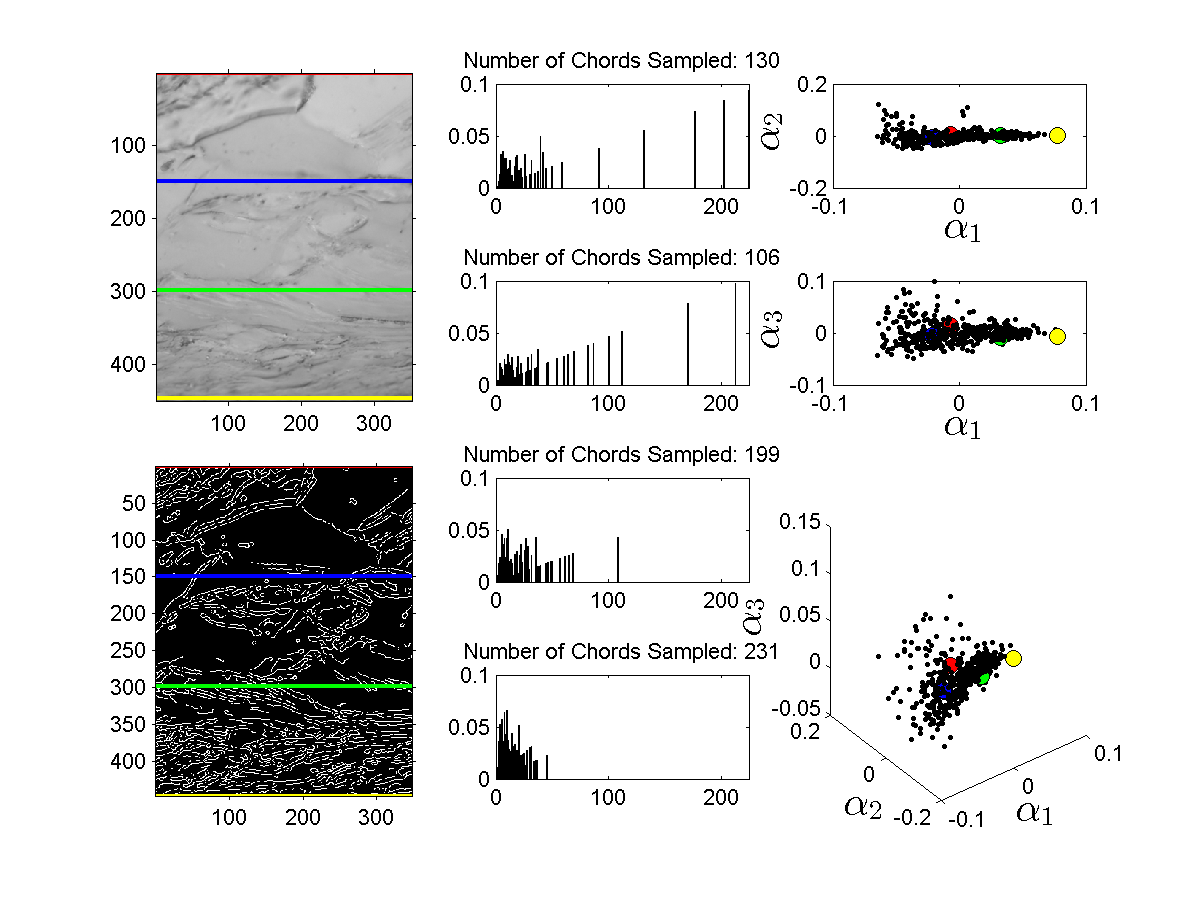
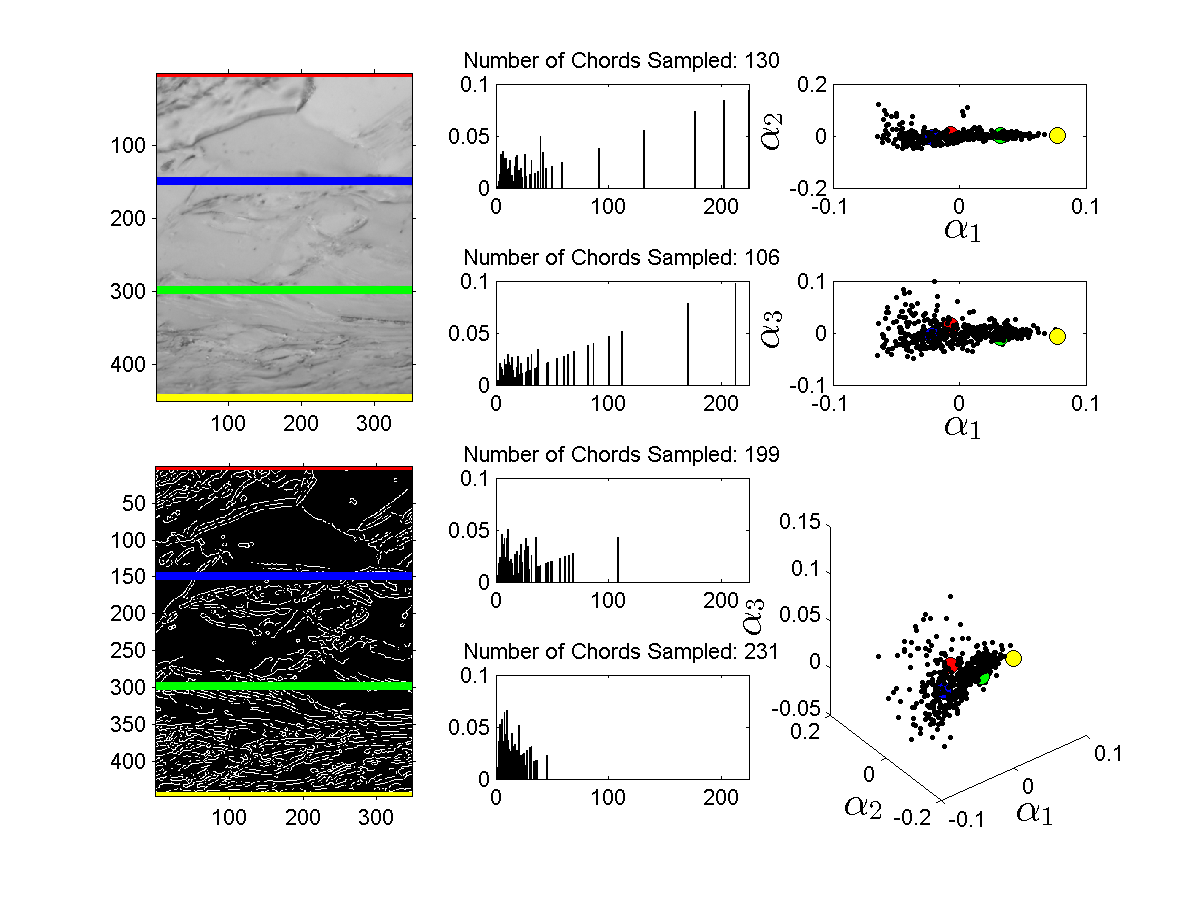
more pca updates to the code

diff --git a/images/22/chords/spatialstats.m b/images/22/chords/spatialstats.m
@@ -209,7 +209,7 @@ axis on;
 j = 0;
 for i = 1+ floor(linspace(0,1,4)*(size(cords,3)-1))
     j = j + 1;
-    plot([1 size(BW,2)],[i i],c{j},'linewidth',2);
+    plot([1 size(BW,2)],[i i],c{j},'linewidth',4);
 end
 
 
@@ -219,7 +219,7 @@ axis on;
 j = 0;
 for i = 1+ floor(linspace(0,1,4)*(size(cords,3)-1))
     j = j + 1;
-    plot([1 size(BW,2)],[i i],c{j},'linewidth',2);
+    plot([1 size(BW,2)],[i i],c{j},'linewidth',4);
 end
 
 
